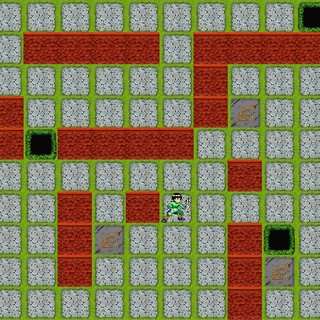
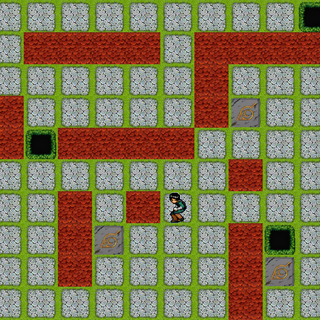
Plusieur modif :
- Possibiliter d'utiliser les fleche lors du test de niveau dans l'editeur
- Changement d'image lors des deplacement du perso dans les differente direction
- Unification de ApparenceView et AppparenceGrille en une seule classe nommé ThemeView,car on ne peut modifier que le theme
- Ajout de raccourci pour l'editeur

diff --git a/views/EditorView.py b/views/EditorView.py
@@ -29,6 +29,7 @@ class CaseButton(QPushButton):
         self.__val_bg = type_case[0]
         self.__val_fg = type_case[1]
         self.__view.getModel().setGrid(self.__pos_lig, self.__pos_col, self.__val_bg, self.__val_fg)
+        self.__view.setTestGood(False)
         self.updateView()
 
     def getPosLig(self):
@@ -64,7 +65,7 @@ class CaseButton(QPushButton):
         elif self.__val_fg == 1:  # Caisse
             w.setStyleSheet("background-image: url(images/Naruto/Caisse.png)")
         elif self.__val_fg == 2:  # Joueur
-            w.setStyleSheet("background-image: url(images/Naruto/Perso.png)")
+            w.setStyleSheet("background-image: url(images/Naruto/Perso"+self.__view.getDirection()+".png)")
             if not (self.__pos_lig == -1 and self.__pos_col == -1):
                 self.__view.getModel().setPosJoueur(self.__pos_lig, self.__pos_col)
         self.layout().addWidget(w)
@@ -79,6 +80,7 @@ class CaseButton(QPushButton):
 class EditorView(QMainWindow):
     def __init__(self, app):
         super(EditorView, self).__init__()
+        self.setWindowTitle("SOKOBAN - EDITOR")
         self.__app = app
         self.__grid = Grid(self, True)
         self.__grid2 = []
@@ -86,6 +88,7 @@ class EditorView(QMainWindow):
         self.__val_fg = 0
         self.__nbMovement = 0
         self.__testGood = False
+        self.__direction = "Down"
         # generation du nom du niveau
         self.__nameFile = "CustomLevel"
         files = next(walk("grids"))[2]
@@ -131,6 +134,7 @@ class EditorView(QMainWindow):
         # Grille
         vbox = QWidget()
         vbox.setLayout(QVBoxLayout())
+        vbox.setContentsMargins(0, 0, 0, 0)
         self.__w_name_file = QTextEdit()
         self.__w_name_file.setFixedSize(640, 25)
         self.__w_name_file.setText("<center>" + self.__nameFile + "</center>")
@@ -156,6 +160,15 @@ class EditorView(QMainWindow):
         w.layout().addWidget(vbox)
 
         self.setCentralWidget(w)
+
+    def setTestGood(self, t: bool):
+        self.__testGood = t
+
+    def getDirection(self):
+        return self.__direction
+
+    def setDirection(self, direction: str):
+        self.__direction = direction
 
     def getModel(self):
         return self.__grid
@@ -272,7 +285,11 @@ class EditorView(QMainWindow):
         label = QLabel("<h1>" + texte + "</h1", parent=dialog)
         label.adjustSize()
         dialog.adjustSize()
+        self.centralWidget().releaseKeyboard()
+        dialog.setFocus()
         dialog.exec_()
+        self.centralWidget().setFocus()
+        self.centralWidget().grabKeyboard()
 
     def updateView(self):
         for i in reversed(range(self.__GridLayout.count())):
@@ -284,6 +301,9 @@ class EditorView(QMainWindow):
             for j in range(len(grid[0][i])):
                 self.__GridLayout.addWidget(CaseButton(self, grid[0][i][j], grid[1][i][j], i, j), i, j)
 
+    def launchTest(self):
+        pass
+
     def testButton(self):
         if self.__button_test.text() == "stop":
             self.centralWidget().setDeplacement(False)
@@ -294,7 +314,6 @@ class EditorView(QMainWindow):
             return
         self.__grid2 = self.__grid.getGridCopy()
         self.centralWidget().setDeplacement(True)
-        self.__testGood = True
         self.__button_test.setText("stop")
 
     def incrementNbMovement(self):
@@ -309,6 +328,7 @@ class EditorView(QMainWindow):
         print("la")
         if win:
             self.problemView("Niveaux terminer : <br>"+txt)
+            self.__testGood = True
         else:
             self.__testGood = False
             self.problemView("Perdu : <br>" + txt)

diff --git a/views/themeView.py b/views/themeView.py
@@ -3,18 +3,24 @@ from os import walk
 from PyQt5.QtWidgets import *
 
 
-class ApparenceGrille(QWidget):
+class ThemeView(QMainWindow):
     def __init__(self, view):
+        super(ThemeView, self).__init__()
         self.__view = view
-        super(ApparenceGrille, self).__init__()
-        self.setLayout(QVBoxLayout(self))
-        self.setStyleSheet("border: 1px solid gray")
+        self.setWindowTitle("Settings - Theme")
+        self.setFixedSize(340, 450)
+
+        # Apercu + comboBox (central widget)
+        w = QWidget()
+        self.__view = view
+        w.setLayout(QVBoxLayout(w))
+        w.setStyleSheet("border: 1px solid gray")
 
         self.__apercu = QWidget()
         self.__apercu.setLayout(QGridLayout(self.__apercu))
         self.__apercu.setFixedSize(320, 320)
         self.__apercu.setStyleSheet("background-image: url(images/" + view.getTheme() + "/apercu.png)")
-        self.layout().addWidget(self.__apercu)
+        w.layout().addWidget(self.__apercu)
 
         HBox1 = QWidget()
         HBox1.setLayout(QHBoxLayout(HBox1))
@@ -27,22 +33,8 @@ class ApparenceGrille(QWidget):
         self.__ComboBox.setFixedSize(225, 25)
         HBox1.layout().addWidget(self.__ComboBox)
         HBox1.setFixedSize(HBox1.layout().totalMinimumSize())
-        self.layout().addWidget(HBox1)
-
-    def changeTheme(self):
-        self.__apercu.setStyleSheet("background-image: url(images/" + self.__ComboBox.currentText() + "/apercu.png)")
-
-    def apply(self):
-        self.__view.setTheme(self.__ComboBox.currentText())
-        self.__view.updateView()
-
-
-class ApparenceView(QMainWindow):
-    def __init__(self, view):
-        super(ApparenceView, self).__init__()
-        self.__view = view
-        self.setWindowTitle("Settings - Theme")
-        self.setFixedSize(340, 450)
+        w.layout().addWidget(HBox1)
+        self.setCentralWidget(w)
 
         # statut bar
         bar = self.statusBar()
@@ -54,14 +46,13 @@ class ApparenceView(QMainWindow):
         bar.addPermanentWidget(buttonApply)
         bar.addPermanentWidget(buttonCancel)
 
-        self.apparenceGrille()
+    def changeTheme(self):
+        self.__apercu.setStyleSheet("background-image: url(images/" + self.__ComboBox.currentText() + "/apercu.png)")
 
     def cancel(self):
         self.__view.closeSecondView()
 
     def apply(self):
-        self.centralWidget().apply()
+        self.__view.setTheme(self.__ComboBox.currentText())
+        self.__view.updateView()
         self.__view.closeSecondView()
-
-    def apparenceGrille(self):
-        self.setCentralWidget(ApparenceGrille(self.__view))

diff --git a/views/gridView.py b/views/gridView.py
@@ -3,17 +3,19 @@ from PyQt5.QtWidgets import QMainWindow, QAction, QLabel, QGridLayout, QWidget, 
 from PyQt5.QtCore import Qt
 from controllers.crtlMouvement import CrtlMouvement
 from model.grid import Grid
-from views.apparenceView import ApparenceView
+from views.themeView import ThemeView
 
 
 class GridView(QMainWindow):
     def __init__(self, app):
         super(GridView, self).__init__()
+        self.setWindowTitle("SOKOBAN")
         self.__app = app
         self.__model = Grid(self)
         self.__controller = CrtlMouvement(self)
         self.__theme = "Naruto"
         self.__secondView = None
+        self.__direction = "Down"
         self.setFixedSize(self.__model.getNbCaseX() * self.__model.getTailleCase(),
                           self.__model.getNbCaseY() * self.__model.getTailleCase())
         # menu
@@ -31,7 +33,7 @@ class GridView(QMainWindow):
         help_action.triggered.connect(self.helpView)  # A modifier pour expliquer le but du jeu
         quit_action.triggered.connect(self.quit)
         restart_action.triggered.connect(self.restart)
-        theme_action.triggered.connect(self.apparenceView)
+        theme_action.triggered.connect(self.themeView)
         changer_niv.triggered.connect(self.changerLevel)
 
         menu_jeu.addAction(restart_action)
@@ -74,6 +76,9 @@ class GridView(QMainWindow):
     def getNbOfMovements(self):
         return self.__nbOfMovements
 
+    def setDirection(self, direction: str):
+        self.__direction = direction
+
     def incrementNbMovement(self):
         self.__nbOfMovements += 1
 
@@ -109,7 +114,7 @@ class GridView(QMainWindow):
                 elif grid[1][i][j] == 1:  # Caisse
                     case.setStyleSheet("background-image: url(images/" + self.__theme + "/Caisse.png);")
                 elif grid[1][i][j] == 2:  # joueur
-                    case.setStyleSheet("background-image: url(images/" + self.__theme + "/Perso.png);")
+                    case.setStyleSheet("background-image: url(images/" + self.__theme + "/Perso"+self.__direction+".png);")
                 self.__GridLayout.addWidget(case, i, j)
         # update nb movements
         self.__labelNbMove.setText("Nombre de Mouvements : " + str(self.__nbOfMovements))
@@ -146,8 +151,8 @@ class GridView(QMainWindow):
 
         dialog.exec_()
 
-    def apparenceView(self):
-        self.__secondView = ApparenceView(self)
+    def themeView(self):
+        self.__secondView = ThemeView(self)
         self.__secondView.show()
 
     def closeSecondView(self):

diff --git a/controllers/crtlEditor.py b/controllers/crtlEditor.py
@@ -9,6 +9,7 @@ class CrtlEditor(QWidget):
         self.__view = view
         self.__deplacement = False
         self.__crtl = False
+        self.grabKeyboard()
 
     def setDeplacement(self, boolean: bool):
         self.__deplacement = boolean
@@ -24,7 +25,27 @@ class CrtlEditor(QWidget):
             elif evt.key() == 16777237 or evt.key() == 83:  # down arrow or s
                 self.__view.getModel().deplacerJoueur([1, 0])
 
-
+        if evt.key() == 16777216:  # Echap
+            self.__view.quit()
+        elif evt.key() == 38:  # 1 &  (Sol)
+            self.__view.setTypeCase([0, 0])
+        elif evt.key() == 201:  # 2 é  (Mur)
+            self.__view.setTypeCase([1, 0])
+        elif evt.key() == 34:  # 3 "  (Trou)
+            self.__view.setTypeCase([2, 0])
+        elif evt.key() == 39:  # 4 '  (Caisse)
+            self.__view.setTypeCase([0, 1])
+        elif evt.key() == 40:  # 5 (  (Perso)
+            self.__view.setTypeCase([0, 2])
+        elif evt.key() == 84:  # T  (tester niveaux)
+            self.__view.testButton()
+        elif self.__crtl and evt.key() == 78:  # Ctrl + N
+            self.__view.newLevel()
+        elif self.__crtl and evt.key() == 79:  # Crtl + O
+            self.__view.openLevel()
+        elif self.__crtl and evt.key() == 83:  # Crtl + S
+            self.__view.save()
+            self.__crtl = False
         elif evt.key() == 16777249:
             self.__crtl = True
 

diff --git a/model/grid.py b/model/grid.py
@@ -93,6 +93,14 @@ class Grid():
         return True
 
     def deplacerJoueur(self, sens):
+        if sens == [-1, 0]:
+            self.__view.setDirection("Up")
+        elif sens == [1, 0]:
+            self.__view.setDirection("Down")
+        elif sens == [0, -1]:
+            self.__view.setDirection("Left")
+        else:
+            self.__view.setDirection("Right")
         new_ligne = self.__posJoueur[0] + sens[0]
         new_colonne = self.__posJoueur[1] + sens[1]
         caisse_deplacer = False

diff --git a/main.py b/main.py
@@ -17,17 +17,14 @@ class App(QApplication):
 
     def mainMenu(self):
         self.__view = MainMenu(self)
-        self.__view.setWindowTitle("SOKOBAN")
         self.__view.show()
 
     def Game(self):
         self.__view = GridView(self)
-        self.__view.setWindowTitle("SOKOBAN")
         self.__view.show()
 
     def editor(self):
         self.__view = EditorView(self)
-        self.__view.setWindowTitle("SOKOBAN - EDITOR")
         self.__view.show()
 
 

diff --git a/controllers/crtlMouvement.py b/controllers/crtlMouvement.py
@@ -29,7 +29,7 @@ class CrtlMouvement(QWidget):
         elif evt.key() == 16777264:
             self.__view.helpView()
         elif evt.key() == 16777265:
-            self.__view.apparenceView()
+            self.__view.themeView()
         elif evt.key() == 16777249:
             self.__crtl = True
         elif self.__crtl and evt.key() == 82:

diff --git a/views/MainMenu.py b/views/MainMenu.py
@@ -7,6 +7,7 @@ from PyQt5.QtWidgets import *
 class MainMenu(QMainWindow):
     def __init__(self, app):
         super(MainMenu, self).__init__()
+        self.setWindowTitle("SOKOBAN")
         self.setFixedSize(640, 640)
         self.setStyleSheet("background-color: gray;")
         self.__app = app
